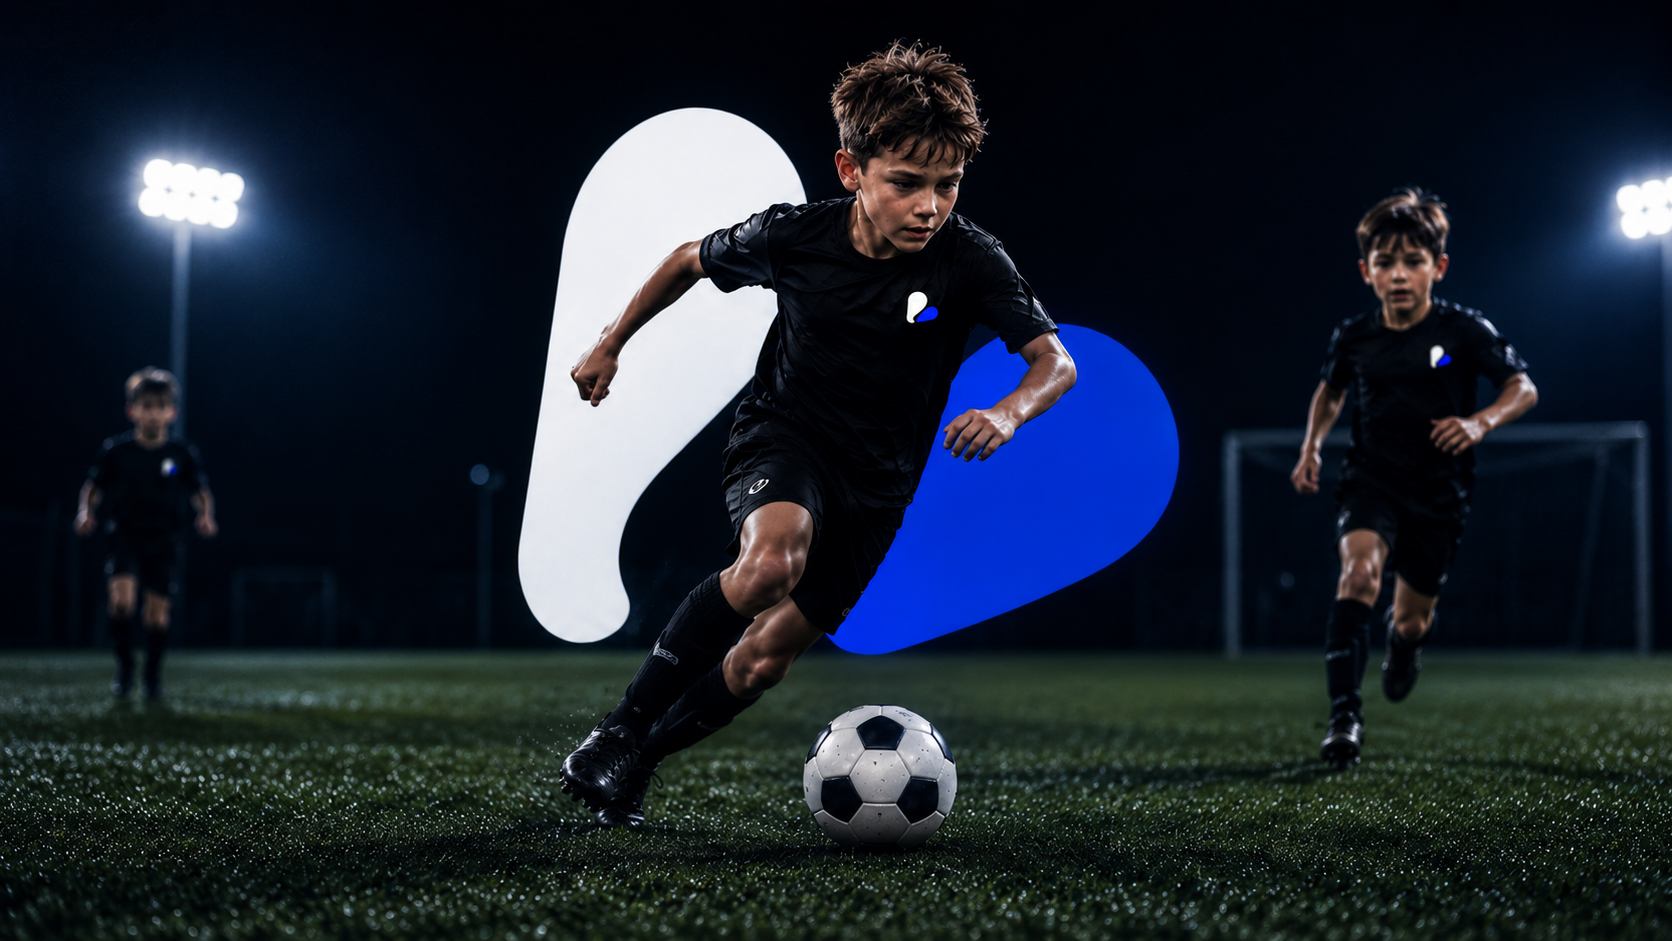
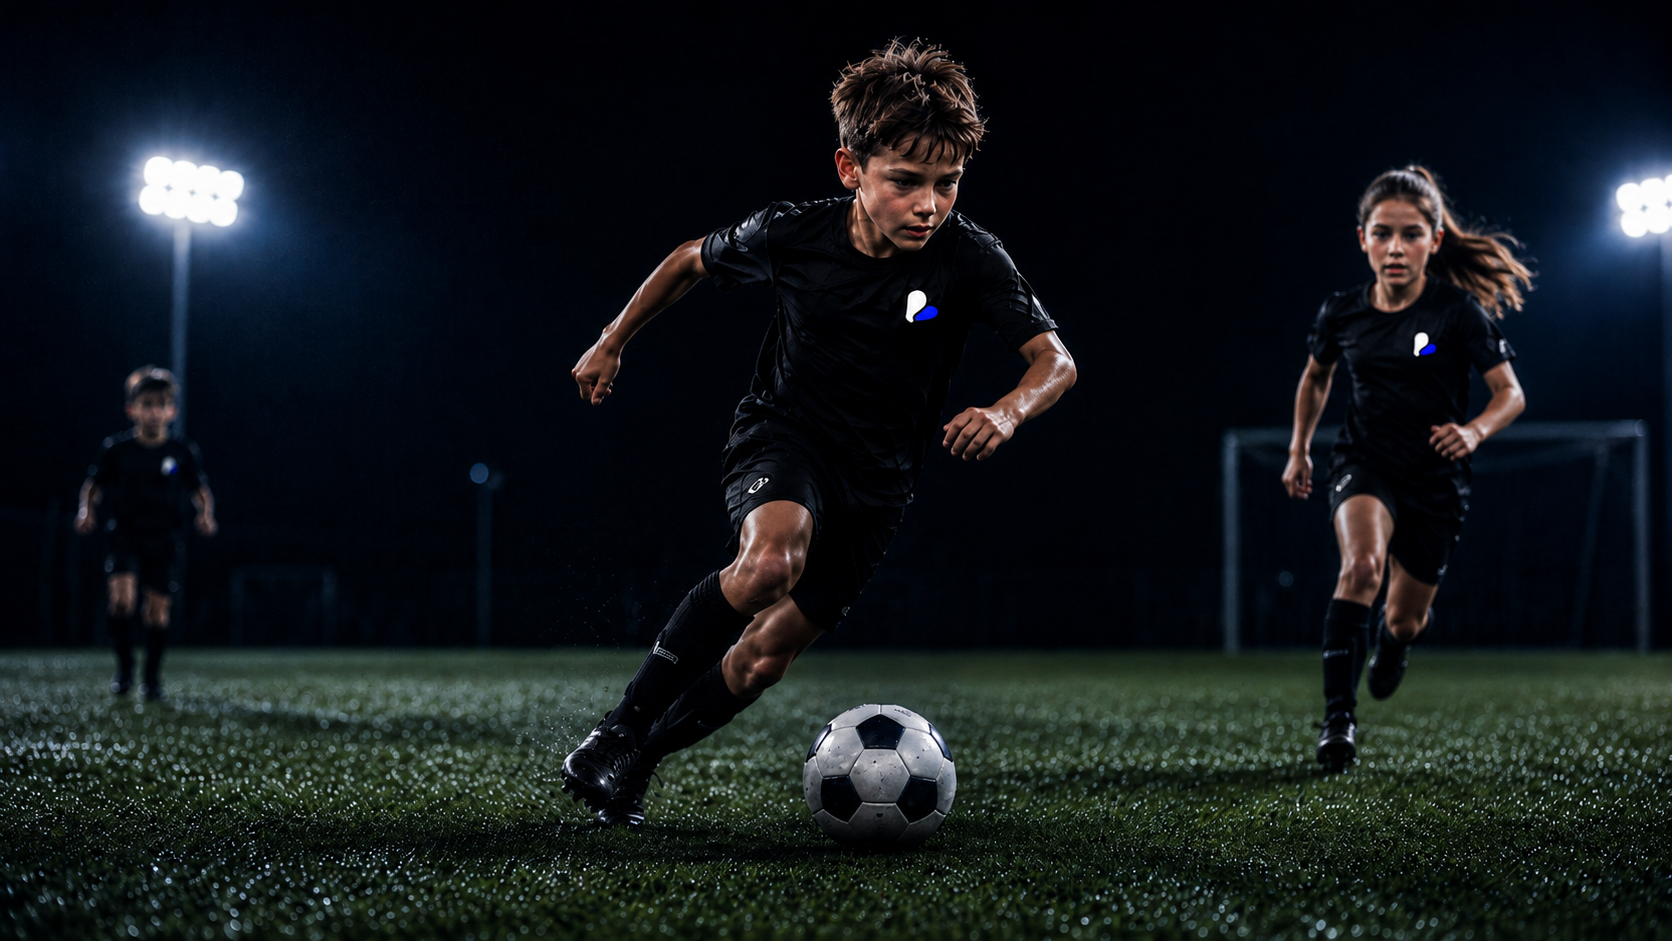
feat(home): tidy spotlight cards, footer contacts and hero
- both spotlight CTAs use the primary blue (violet variant dropped) so
  they read as one system; add one-word kickers above each title and
  min-width:0 to keep the two cards exactly equal width
- drop the decorative tile icons from the four audience cards, keep them
  only on the two spotlight cards
- darken the spotlight photo scrim (esp. accent-blue) so copy stays
  readable over the night-city shot
- footer: remove the placeholder phone, point the email at the real
  domain (hello@prokasanie.ru) with a TODO for the real mailbox
- rename the "Школы и секции" audience card to "Академии и секции"
- swap the hero photo

diff --git a/frontend/src/pages/HomePage.tsx b/frontend/src/pages/HomePage.tsx
@@ -7,15 +7,15 @@ const asset = (name: string) => `/brand/home-reference/${name}-v2.png`
 const icon = (name: string) => `/brand/icons/${name}.webp`
 
 const spotlightCards = [
-  { image: 'nearby', icon: 'activity-location', title: 'Найдите активность рядом', copy: 'Игры, тренировки, секции и события поблизости.', action: 'Найти игру рядом', link: '/sports', accent: 'blue' },
-  { image: 'route', icon: 'sports-route', title: 'Создайте свой спортивный маршрут', copy: 'Постройте свой путь: от события к прогрессу. Планируйте, развивайтесь и достигайте новых целей вместе.', action: 'Выбрать роль', link: '/join', accent: 'violet' }
+  { image: 'nearby', icon: 'activity-location', kicker: 'Найти', title: 'Найдите активность рядом', copy: 'Игры, тренировки, секции и события поблизости.', action: 'Найти игру рядом', link: '/sports', accent: 'blue' },
+  { image: 'route', icon: 'sports-route', kicker: 'Развиваться', title: 'Создайте свой спортивный маршрут', copy: 'Постройте свой путь: от события к прогрессу. Планируйте, развивайтесь и достигайте новых целей вместе.', action: 'Выбрать роль', link: '/join', accent: 'violet' }
 ] as const
 
 const audienceCards = [
-  { image: 'child-parent', icon: 'children-parents', title: 'Дети и родители', copy: 'Секции и занятия для ребёнка. Получайте обратную связь и находите лучшие занятия рядом с вами.', link: '/register-parent' },
-  { image: 'player', icon: 'players', title: 'Игроки', copy: 'Находите игры и тренировки, развивайте навыки и достигайте своих спортивных целей.', link: '/register' },
-  { image: 'coach', icon: 'coaches', title: 'Тренеры', copy: 'Планируйте тренировки, управляйте командами и отслеживайте прогресс своих игроков.', link: '/register-coach' },
-  { image: 'school', icon: 'schools-sections', title: 'Школы и секции', copy: 'Управляйте группами, расписанием и взаимодействием с игроками и их родителями.', link: '/login' }
+  { image: 'child-parent', title: 'Дети и родители', copy: 'Секции и занятия для ребёнка. Получайте обратную связь и находите лучшие занятия рядом с вами.', link: '/register-parent' },
+  { image: 'player', title: 'Игроки', copy: 'Находите игры и тренировки, развивайте навыки и достигайте своих спортивных целей.', link: '/register' },
+  { image: 'coach', title: 'Тренеры', copy: 'Планируйте тренировки, управляйте командами и отслеживайте прогресс своих игроков.', link: '/register-coach' },
+  { image: 'school', title: 'Академии и секции', copy: 'Управляйте группами, расписанием и взаимодействием с игроками и их родителями.', link: '/login' }
 ] as const
 
 type PlatformStats = { users: number; teams: number; tournaments: number; coaches: number; trustPercent: number | null }
@@ -24,7 +24,6 @@ const numberFormatter = new Intl.NumberFormat('ru-RU')
 function HomeIcon({ name }: { name: string }) {
   const common = { viewBox: '0 0 24 24', 'aria-hidden': true, focusable: false } as const
   if (name === 'mail') return <svg {...common}><rect x="3" y="5" width="18" height="14" rx="2" /><path d="m4 7 8 6 8-6" /></svg>
-  if (name === 'phone') return <svg {...common}><path d="M7 3h3l1 5-2 1.5a15 15 0 0 0 5.5 5.5L16 13l5 1v3c0 1.7-1.3 3-3 3C10.3 20 4 13.7 4 6a3 3 0 0 1 3-3Z" /></svg>
   if (name === 'vk') return <svg {...common} fill="currentColor" stroke="none"><path d="M13.02 17.36c-5.36 0-8.41-3.68-8.54-9.8h2.69c.09 4.5 2.07 6.4 3.64 6.79V7.56h2.53v3.88c1.55-.17 3.18-1.94 3.73-3.88h2.53a7.45 7.45 0 0 1-3.43 4.88 7.72 7.72 0 0 1 4.02 4.92h-2.79c-.53-1.66-2.02-2.95-4.06-3.15v3.15h-.3z" /></svg>
   if (name === 'telegram') return <svg {...common} fill="currentColor" stroke="none"><path d="M21.94 4.9 18.9 19.2c-.23 1.01-.83 1.26-1.68.79l-4.64-3.42-2.24 2.16c-.25.25-.46.46-.94.46l.33-4.73 8.62-7.79c.38-.33-.08-.52-.58-.19L7.42 13.2l-4.58-1.43c-1-.31-1.02-1 .21-1.48l17.9-6.9c.83-.31 1.56.19 1.29 1.51z" /></svg>
   if (name === 'instagram') return <svg {...common} fill="currentColor" stroke="none"><path d="M12 2.16c3.2 0 3.58.01 4.85.07 1.17.05 1.8.25 2.23.41.56.22.96.48 1.38.9.42.42.68.82.9 1.38.16.42.36 1.06.41 2.23.06 1.27.07 1.65.07 4.85s-.01 3.58-.07 4.85c-.05 1.17-.25 1.8-.41 2.23-.22.56-.48.96-.9 1.38-.42.42-.82.68-1.38.9-.42.16-1.06.36-2.23.41-1.27.06-1.65.07-4.85.07s-3.58-.01-4.85-.07c-1.17-.05-1.8-.25-2.23-.41a3.7 3.7 0 0 1-1.38-.9 3.7 3.7 0 0 1-.9-1.38c-.16-.42-.36-1.06-.41-2.23-.06-1.27-.07-1.65-.07-4.85s.01-3.58.07-4.85c.05-1.17.25-1.8.41-2.23.22-.56.48-.96.9-1.38.42-.42.82-.68 1.38-.9.42-.16 1.06-.36 2.23-.41 1.27-.06 1.65-.07 4.85-.07M12 0C8.74 0 8.33.01 7.05.07 5.78.13 4.9.33 4.14.63c-.79.3-1.46.72-2.13 1.38C1.35 2.68.93 3.35.63 4.14.33 4.9.13 5.78.07 7.05.01 8.33 0 8.74 0 12s.01 3.67.07 4.95c.06 1.27.26 2.15.56 2.91.3.79.72 1.46 1.38 2.13.67.66 1.34 1.08 2.13 1.38.76.3 1.64.5 2.91.56C8.33 23.99 8.74 24 12 24s3.67-.01 4.95-.07c1.27-.06 2.15-.26 2.91-.56.79-.3 1.46-.72 2.13-1.38.66-.67 1.08-1.34 1.38-2.13.3-.76.5-1.64.56-2.91.06-1.28.07-1.69.07-4.95s-.01-3.67-.07-4.95c-.06-1.27-.26-2.15-.56-2.91-.3-.79-.72-1.46-1.38-2.13C21.32 1.35 20.65.93 19.86.63 19.1.33 18.22.13 16.95.07 15.67.01 15.26 0 12 0zm0 5.84A6.16 6.16 0 1 0 18.16 12 6.16 6.16 0 0 0 12 5.84zM12 16a4 4 0 1 1 4-4 4 4 0 0 1-4 4zm6.41-10.85a1.44 1.44 0 1 0 1.44 1.44 1.44 1.44 0 0 0-1.44-1.44z" /></svg>
@@ -41,11 +40,11 @@ function Header() {
 }
 
 function Hero() {
-  return <section id="top" className="home-hero" aria-labelledby="home-title"><div className="home-hero-copy"><h1 id="home-title">Спорт начинается<br />с первого <em>касания</em></h1><div id="capabilities" className="home-spotlight-grid" aria-label="Основные сценарии">{spotlightCards.map(card => <Link className={`home-spotlight-card accent-${card.accent}`} to={card.link} key={card.title} aria-label={card.accent === 'blue' ? 'Найти игру рядом' : 'Стать участником — выбрать роль'}><i className="home-spotlight-icon"><img src={icon(card.icon)} alt="" width={46} height={46} /></i><div className="home-spotlight-copy"><h2>{card.title}</h2><p>{card.copy}</p><span className="home-spotlight-cta">{card.action} <b>→</b></span></div><img src={asset(card.image)} alt="" loading="eager" />{card.accent === 'violet' && <div className="home-role-pills"><span><img src={icon('role-player')} alt="" width={18} height={18} />Игрок</span><span><img src={icon('role-parent')} alt="" width={18} height={18} />Родитель</span><span><img src={icon('role-coach')} alt="" width={18} height={18} />Тренер</span></div>}</Link>)}</div></div><div className="home-hero-visual" aria-hidden="true"><img src={asset('hero')} alt="" fetchPriority="high" /></div></section>
+  return <section id="top" className="home-hero" aria-labelledby="home-title"><div className="home-hero-copy"><h1 id="home-title">Спорт начинается<br />с первого <em>касания</em></h1><div id="capabilities" className="home-spotlight-grid" aria-label="Основные сценарии">{spotlightCards.map(card => <Link className={`home-spotlight-card accent-${card.accent}`} to={card.link} key={card.title} aria-label={card.accent === 'blue' ? 'Найти игру рядом' : 'Стать участником — выбрать роль'}><i className="home-spotlight-icon"><img src={icon(card.icon)} alt="" width={46} height={46} /></i><div className="home-spotlight-copy"><span className="home-spotlight-kicker">{card.kicker}</span><h2>{card.title}</h2><p>{card.copy}</p><span className="home-spotlight-cta">{card.action} <b>→</b></span></div><img src={asset(card.image)} alt="" loading="eager" />{card.accent === 'violet' && <div className="home-role-pills"><span><img src={icon('role-player')} alt="" width={18} height={18} />Игрок</span><span><img src={icon('role-parent')} alt="" width={18} height={18} />Родитель</span><span><img src={icon('role-coach')} alt="" width={18} height={18} />Тренер</span></div>}</Link>)}</div></div><div className="home-hero-visual" aria-hidden="true"><img src={asset('hero')} alt="" fetchPriority="high" /></div></section>
 }
 
 function Audiences() {
-  return <section id="events" className="home-audiences" aria-labelledby="audience-title"><h2 id="audience-title">У каждого своё касание</h2><div className="home-audience-grid">{audienceCards.map((card, index) => <Link id={index === 0 ? 'families' : index === 2 ? 'coaches' : undefined} className="home-audience-card" to={card.link} key={card.title} aria-label={`${card.title}: ${card.copy}`}><img src={asset(card.image)} alt="" loading="lazy" /><div className="home-audience-shade" /><i className="home-audience-icon"><img src={icon(card.icon)} alt="" width={46} height={46} /></i><div className="home-audience-copy"><h3>{card.title}</h3><p>{card.copy}</p></div></Link>)}</div></section>
+  return <section id="events" className="home-audiences" aria-labelledby="audience-title"><h2 id="audience-title">У каждого своё касание</h2><div className="home-audience-grid">{audienceCards.map((card, index) => <Link id={index === 0 ? 'families' : index === 2 ? 'coaches' : undefined} className="home-audience-card" to={card.link} key={card.title} aria-label={`${card.title}: ${card.copy}`}><img src={asset(card.image)} alt="" loading="lazy" /><div className="home-audience-shade" /><div className="home-audience-copy"><h3>{card.title}</h3><p>{card.copy}</p></div></Link>)}</div></section>
 }
 
 function LegacyStats() {
@@ -56,7 +55,7 @@ function LegacyStats() {
 }
 
 function Footer() {
-  return <footer className="home-footer"><div className="home-footer-main"><div className="home-footer-brand"><Brand /><p>Платформа для спорта и развития.<br />Объединяем игроков, команды и возможности.</p></div><div className="home-footer-links"><a href="#top">Главная</a><a href="#capabilities">Возможности</a><a href="#families">Для родителей</a><a href="#coaches">Для тренеров</a></div><div className="home-footer-contact"><span>Свяжитесь с нами</span><a href="mailto:hello@kasanie.sport"><HomeIcon name="mail" />hello@kasanie.sport</a><a href="tel:+74951234567"><HomeIcon name="phone" />+7 (495) 123-45-67</a></div><div className="home-footer-social"><span>Мы в соцсетях</span><div><a href="#social-vk" aria-label="ВКонтакте"><HomeIcon name="vk" /></a><a href="#social-telegram" aria-label="Telegram"><HomeIcon name="telegram" /></a><a href="#social-instagram" aria-label="Instagram"><HomeIcon name="instagram" /></a></div></div></div><div className="home-footer-bottom"><span>© 2026 КАСАНИЕ</span><div><a href="#privacy">Политика конфиденциальности</a><i /><a href="#terms">Пользовательское соглашение</a></div></div></footer>
+  return <footer className="home-footer"><div className="home-footer-main"><div className="home-footer-brand"><Brand /><p>Платформа для спорта и развития.<br />Объединяем игроков, команды и возможности.</p></div><div className="home-footer-links"><a href="#top">Главная</a><a href="#capabilities">Возможности</a><a href="#families">Для родителей</a><a href="#coaches">Для тренеров</a></div><div className="home-footer-contact"><span>Свяжитесь с нами</span>{/* TODO: заменить на рабочий ящик, когда заведём почту на prokasanie.ru */}<a href="mailto:hello@prokasanie.ru"><HomeIcon name="mail" />hello@prokasanie.ru</a></div><div className="home-footer-social"><span>Мы в соцсетях</span><div><a href="#social-vk" aria-label="ВКонтакте"><HomeIcon name="vk" /></a><a href="#social-telegram" aria-label="Telegram"><HomeIcon name="telegram" /></a><a href="#social-instagram" aria-label="Instagram"><HomeIcon name="instagram" /></a></div></div></div><div className="home-footer-bottom"><span>© 2026 КАСАНИЕ</span><div><a href="#privacy">Политика конфиденциальности</a><i /><a href="#terms">Пользовательское соглашение</a></div></div></footer>
 }
 
 export function HomePage() {

diff --git a/frontend/src/home.css b/frontend/src/home.css
@@ -44,22 +44,23 @@
 .home-hero-visual img { width: 100%; height: 100%; object-fit: cover; object-position: 56% center; }
 
 .home-spotlight-grid { width: min(100%, 865px); display: grid; grid-template-columns: repeat(2, minmax(0, 1fr)); gap: 16px; margin-top: clamp(43px, 3.7vw, 64px); }
-.home-spotlight-card { position: relative; isolation: isolate; min-height: clamp(230px, 16vw, 274px); overflow: hidden; padding: 16px 19px 19px; border: 1px solid rgba(159, 180, 208, .24); border-radius: 13px; background: #070c14; transition: transform .2s, border-color .2s, box-shadow .2s; }
+.home-spotlight-card { position: relative; isolation: isolate; min-width: 0; min-height: clamp(230px, 16vw, 274px); overflow: hidden; padding: 16px 19px 19px; border: 1px solid rgba(159, 180, 208, .24); border-radius: 13px; background: #070c14; transition: transform .2s, border-color .2s, box-shadow .2s; }
 .home-spotlight-card::before { content: ''; position: absolute; z-index: -1; inset: 0; background: linear-gradient(145deg, rgba(7, 16, 28, .94), rgba(2, 7, 14, .75)); }
-.home-spotlight-card::after { content: ''; position: absolute; z-index: 1; inset: 0; background: linear-gradient(180deg, transparent 36%, rgba(3, 7, 13, .26) 62%, rgba(3, 7, 13, .86) 100%); pointer-events: none; }
+.home-spotlight-card::after { content: ''; position: absolute; z-index: 1; inset: 0; background: linear-gradient(180deg, rgba(3, 7, 13, .06) 0%, rgba(3, 7, 13, .38) 34%, rgba(3, 7, 13, .66) 60%, rgba(3, 7, 13, .9) 100%); pointer-events: none; }
 .home-spotlight-card:hover { transform: translateY(-3px); border-color: rgba(70, 148, 255, .68); box-shadow: 0 16px 42px rgba(0, 0, 0, .34); }
 .home-spotlight-card.accent-violet:hover { border-color: rgba(151, 74, 255, .68); }
-.home-spotlight-card > img { position: absolute; z-index: 0; inset: 0; width: 100%; height: 100%; object-fit: cover; object-position: right center; opacity: .9; mix-blend-mode: screen; }
+.home-spotlight-card > img { position: absolute; z-index: 0; inset: 0; width: 100%; height: 100%; object-fit: cover; object-position: right center; opacity: .72; mix-blend-mode: screen; }
+.home-spotlight-card.accent-blue > img { opacity: .5; }
 .home-spotlight-card.accent-violet > img { object-position: 72% center; opacity: .8; }
 .home-spotlight-icon, .home-spotlight-copy, .home-role-pills { position: relative; z-index: 3; }
 .home-spotlight-icon { width: 46px; height: 46px; display: block; border-radius: 13px; overflow: hidden; font-style: normal; box-shadow: 0 8px 20px rgba(6, 20, 60, .5); }
-.home-spotlight-icon img, .home-audience-icon img { width: 114%; height: 114%; margin: -7%; object-fit: cover; display: block; }
+.home-spotlight-icon img { width: 114%; height: 114%; margin: -7%; object-fit: cover; display: block; }
 .home-footer-contact svg { width: 22px; height: 22px; fill: none; stroke: currentColor; stroke-linecap: round; stroke-linejoin: round; stroke-width: 1.7; }
 .home-spotlight-copy { max-width: 88%; margin-top: 13px; }
+.home-spotlight-kicker { display: inline-block; margin-bottom: 9px; color: #8fb4ff; font-size: 11px; font-weight: 800; letter-spacing: .16em; text-transform: uppercase; }
 .home-spotlight-copy h2 { margin: 0 0 7px; color: #fff; font-size: clamp(17px, 1.2vw, 23px); font-weight: 750; line-height: 1.16; letter-spacing: -.035em; }
 .home-spotlight-copy p { max-width: 360px; margin: 0; color: #c0c7d1; font-size: clamp(10px, .62vw, 13px); line-height: 1.52; }
 .home-spotlight-cta { display: inline-flex; align-items: center; gap: 8px; margin-top: 18px; padding: 10px 18px; border-radius: 9px; background: linear-gradient(135deg, #0a6ff0, #1d8bff); color: #fff; font-size: clamp(11px, .65vw, 14px); font-weight: 800; box-shadow: 0 10px 26px rgba(0, 105, 255, .32); transition: transform .2s, filter .2s; }
-.accent-violet .home-spotlight-cta { background: linear-gradient(135deg, #7a2cff, #4f12e0); box-shadow: 0 10px 26px rgba(104, 29, 255, .34); }
 .home-spotlight-cta b { font-size: 17px; font-weight: 500; line-height: 0; }
 .home-spotlight-card:hover .home-spotlight-cta { transform: translateY(-1px); filter: brightness(1.08); }
 .home-role-pills { margin-top: 13px; display: flex; flex-wrap: wrap; gap: 8px; }
@@ -77,7 +78,6 @@
 .home-audience-card:nth-child(3) > img { object-position: 55% center; }
 .home-audience-card:nth-child(4) > img { object-position: 57% center; }
 .home-audience-shade { position: absolute; z-index: -1; inset: 0; background: linear-gradient(180deg, rgba(2, 6, 12, .12) 3%, rgba(2, 6, 12, .2) 34%, rgba(2, 6, 12, .92) 100%); }
-.home-audience-icon { width: 46px; height: 46px; display: block; border-radius: 13px; overflow: hidden; color: #fff; font-style: normal; box-shadow: 0 8px 20px rgba(6, 20, 60, .5); }
 .home-audience-copy { position: absolute; left: 18px; right: 18px; bottom: 17px; }
 .home-audience-copy h3 { margin: 0 0 6px; color: #fff; font-size: clamp(14px, .85vw, 17px); line-height: 1.15; }
 .home-audience-copy p { max-width: 260px; margin: 0; color: #d0d5df; font-size: clamp(10px, .57vw, 12px); line-height: 1.48; }
